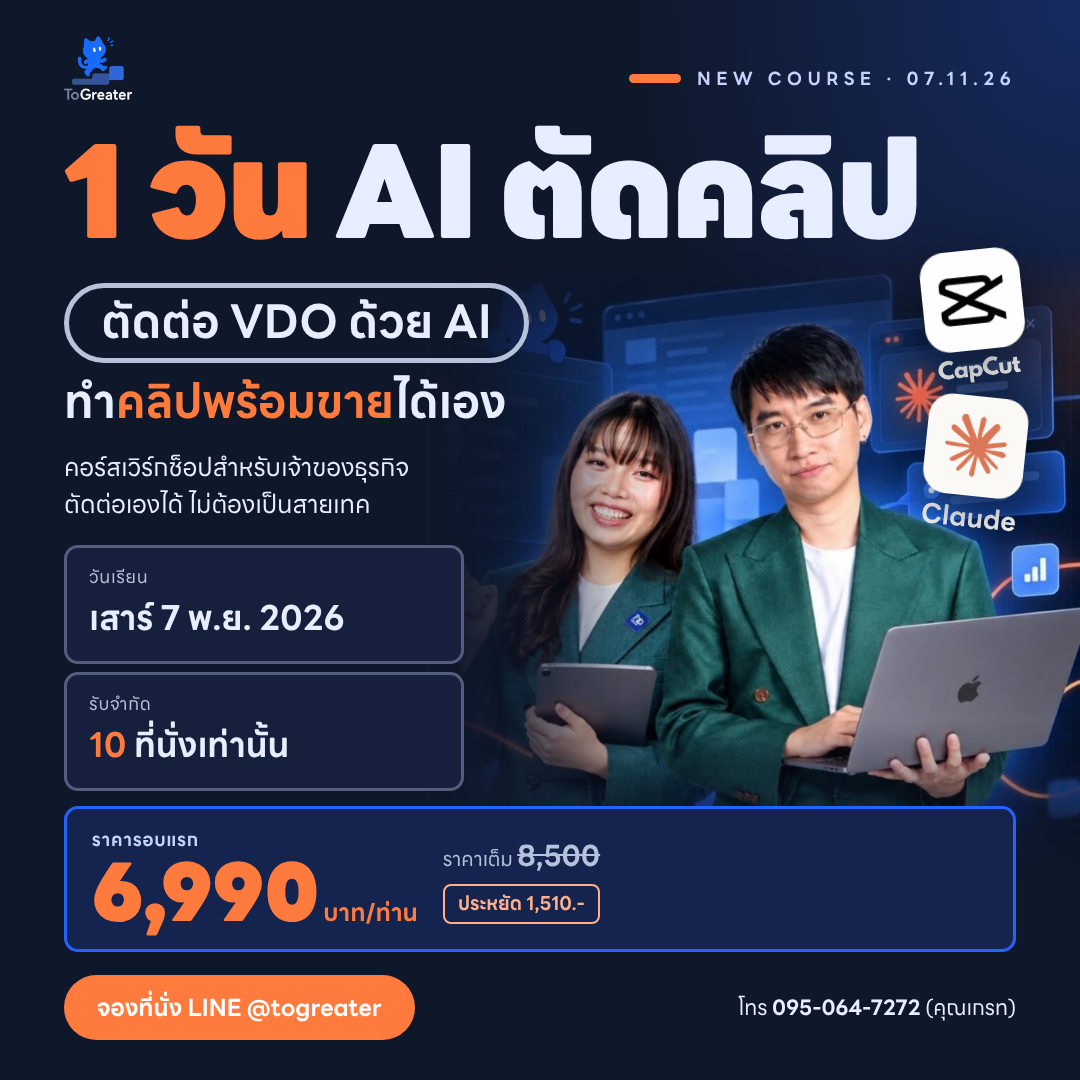
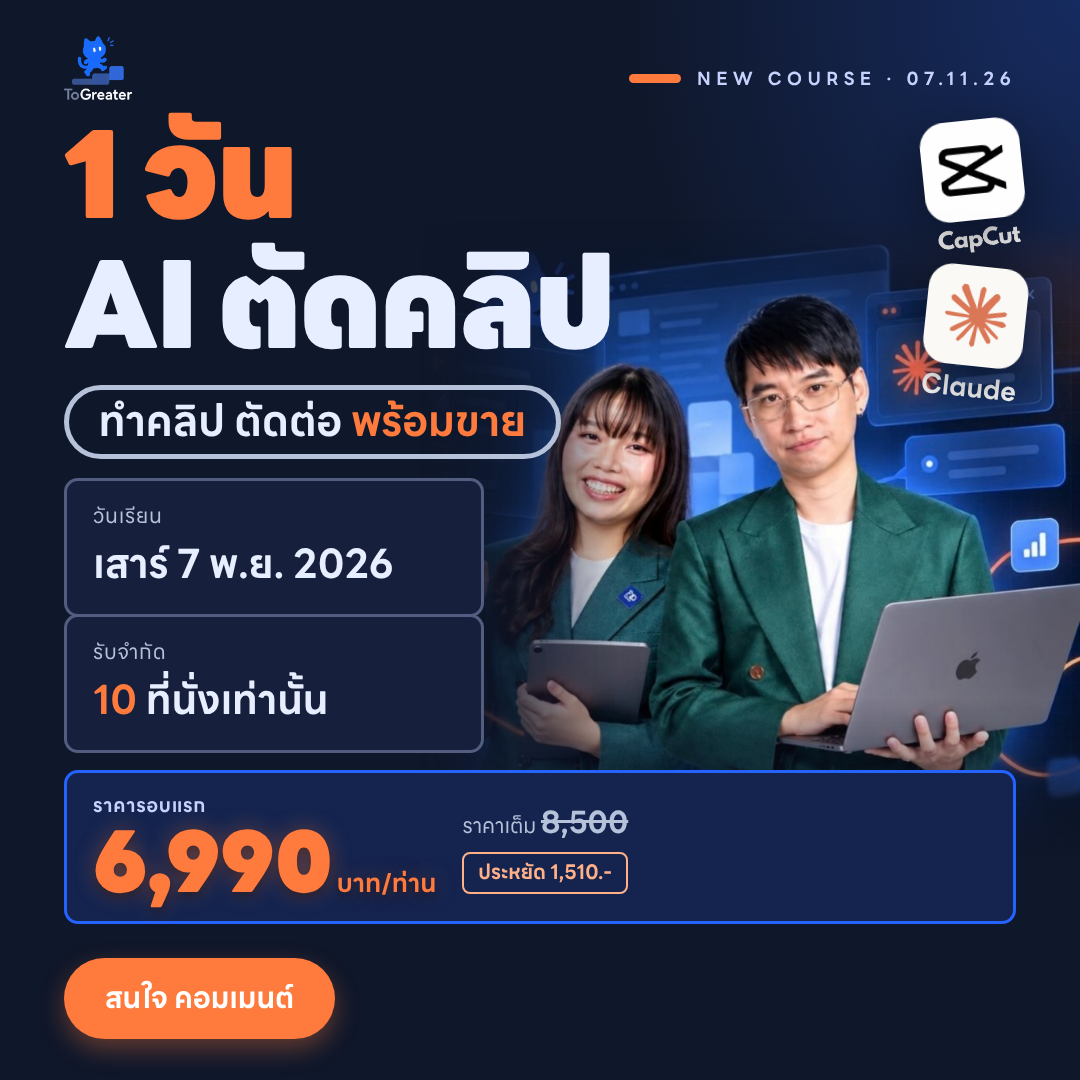
Apply feedback: stacked headline, comment CTA, bigger seats badge, price shadow
Claude-Session: https://claude.ai/code/session_01WvLy75CLDcueEYPMopSorx

diff --git a/banners/ai-video-course/index.html b/banners/ai-video-course/index.html
@@ -32,7 +32,7 @@ body{background:#060b18;font-family:"LINE Seed Sans TH",sans-serif;color:var(--t
 .logo{display:flex}.logo img{height:100%}
 .eyebrow{display:flex;align-items:center;gap:16px;font-size:18px;font-weight:700;letter-spacing:.3em;text-transform:uppercase;color:var(--tg-blue-soft)}
 .eyebrow::before{content:"";width:52px;height:9px;border-radius:9px;background:var(--tg-orange)}
-.title{font-weight:900;line-height:1.12;letter-spacing:-.02em;white-space:nowrap}
+.title{font-weight:900;line-height:1.08;letter-spacing:-.02em;white-space:nowrap}
 .sub{font-weight:700;line-height:1.3;white-space:nowrap}
 /* Title frame (CI 3.6): กรอบ outline ทรงแคปซูล */
 .frame{display:inline-block;border:5px solid var(--tg-text-muted);border-radius:999px;padding:.08em .7em .14em;margin:0 .15em .18em 0}
@@ -50,7 +50,7 @@ body{background:#060b18;font-family:"LINE Seed Sans TH",sans-serif;color:var(--t
 /* price box: font-size = base */
 .price{font-size:19px;background:#14244F;border:3px solid var(--tg-blue);border-radius:14px;padding:.8em 1.3em;display:flex;align-items:center;gap:1.3em}
 .price .now small{font-size:.95em;color:var(--tg-blue-soft);font-weight:700;letter-spacing:.04em}
-.price .now b{display:block;font-size:4.2em;font-weight:900;color:var(--tg-orange);line-height:1;white-space:nowrap}
+.price .now b{display:block;font-size:4.2em;font-weight:900;color:var(--tg-orange);line-height:1;white-space:nowrap;text-shadow:0 0 22px rgba(255,122,61,.35),0 4px 10px rgba(0,0,0,.45)}
 .price .now b sub{font-size:.3em;vertical-align:baseline;font-weight:700;margin-left:.15em}
 .price .was{font-size:1.05em;color:var(--tg-text-muted);line-height:1.5}
 .price .was s{font-size:1.45em;font-weight:700}
@@ -58,7 +58,7 @@ body{background:#060b18;font-family:"LINE Seed Sans TH",sans-serif;color:var(--t
 .price.col{flex-direction:column;align-items:flex-start;gap:.5em}
 
 .cta{display:flex;align-items:center;gap:18px;font-size:21px;color:var(--tg-text)}
-.cta .btn{background:var(--tg-orange);color:#fff;font-weight:700;border-radius:44px;padding:.6em 1.4em;font-size:1.12em;white-space:nowrap}
+.cta .btn{box-shadow:0 10px 24px rgba(255,122,61,.35);background:var(--tg-orange);color:#fff;font-weight:700;border-radius:44px;padding:.6em 1.4em;font-size:1.12em;white-space:nowrap}
 .cta b{font-weight:700}
 .cta.between{justify-content:space-between}
 .cta.col{flex-direction:column;align-items:flex-start;gap:12px}
@@ -67,16 +67,20 @@ body{background:#060b18;font-family:"LINE Seed Sans TH",sans-serif;color:var(--t
 .badge{border-radius:50%;display:flex;flex-direction:column;align-items:center;justify-content:center;text-align:center;line-height:1.15;box-shadow:0 18px 40px rgba(0,0,0,.45)}
 .badge small{font-size:1em;font-weight:700}
 .badge b{font-size:3.4em;font-weight:900;line-height:1.05}
+.badge.seat-b small,.badge.seat-b span{font-size:1.3em}
+.badge.seat-b b{font-size:5em;line-height:1}
 .badge span{font-size:1em;font-weight:700}
-.badge s{font-size:.95em;margin-top:.25em}
+.badge s{font-size:1.05em;font-weight:700;margin-top:.25em}
+.badge.price-b *{text-shadow:0 3px 10px rgba(90,25,0,.45)}
+.badge.price-b b{text-shadow:0 5px 16px rgba(90,25,0,.55)}
 .badge.price-b{background:var(--tg-orange);color:#fff;transform:rotate(8deg)}
 .badge.seat-b{background:#F8FAFF;color:var(--tg-ink);transform:rotate(-6deg)}
 .badge.seat-b b{color:var(--tg-blue)}
 .bar{display:flex;align-items:center;justify-content:space-between;background:rgba(22,32,60,.94);border:3px solid var(--tg-border);border-radius:20px;padding:22px 30px}
 .bar .when small{display:block;font-size:18px;color:var(--tg-text-muted)}
-.bar .when b{font-size:40px;font-weight:700;line-height:1.2}
+.bar .when b{font-size:54px;font-weight:900;line-height:1.15}
 .bar .when em{font-style:normal;font-size:20px;color:var(--tg-blue-soft)}
-.bar .cta{flex-direction:column;align-items:flex-end;gap:10px}
+.bar .cta{flex-direction:column;align-items:flex-end;gap:10px;font-size:26px}
 
 /* C: ตั๋ว — font-size = base */
 .ticket{background:#F8FAFF;color:var(--tg-ink);border-radius:22px;box-shadow:0 24px 50px rgba(0,0,0,.5);transform:rotate(-3deg)}
@@ -93,7 +97,7 @@ body{background:#060b18;font-family:"LINE Seed Sans TH",sans-serif;color:var(--t
 .t-cut::before{left:calc(-1.2em - 18px)}.t-cut::after{right:calc(-1.2em - 18px)}
 .t-bot{padding:.8em 1.4em 1.1em;display:flex;align-items:center;gap:1.1em}
 .t-bot small{display:block;font-size:.78em;font-weight:700;color:var(--tg-ink-body)}
-.t-bot b{display:block;font-size:3.2em;font-weight:900;color:var(--tg-orange);line-height:1;white-space:nowrap}
+.t-bot b{display:block;font-size:3.2em;font-weight:900;color:var(--tg-orange);line-height:1;white-space:nowrap;text-shadow:0 4px 10px rgba(255,122,61,.3)}
 .t-bot b sub{font-size:.3em;vertical-align:baseline;font-weight:700;margin-left:.15em;color:var(--tg-ink)}
 .t-bot .was{font-size:.9em;color:var(--tg-ink-body);line-height:1.5}
 .t-bot .was s{font-size:1.25em;font-weight:700}
@@ -116,51 +120,49 @@ body{background:#060b18;font-family:"LINE Seed Sans TH",sans-serif;color:var(--t
 <!-- =================== A · CLASSIC =================== -->
 <div class="label">A · CLASSIC</div>
 <section class="banner s11" id="a11">
-  <div class="photo" style="left:430px;top:250px;width:650px;height:627px;--mv:linear-gradient(180deg,transparent 0,#000 20%,#000 75%,transparent);--mh:linear-gradient(90deg,transparent 0,#000 30%)"><i></i></div>
+  <div class="photo" style="left:420px;top:220px;width:660px;height:637px;--mv:linear-gradient(180deg,transparent 0,#000 20%,#000 75%,transparent);--mh:linear-gradient(90deg,transparent 0,#000 30%)"><i></i></div>
   <div class="logo" style="left:64px;top:36px;height:64px" data-c="logo"></div>
   <div class="eyebrow" style="right:64px;top:64px" data-c="eyebrow"></div>
-  <div class="stack" style="left:64px;top:122px">
-    <div class="title" style="font-size:128px" data-c="title"></div>
-    <div class="sub" style="font-size:46px" data-c="sub2"></div>
-    <div class="desc" style="font-size:25px" data-c="desc2"></div>
+  <div class="stack" style="left:64px;top:112px;gap:14px">
+    <div class="title" style="font-size:120px" data-c="title"></div>
+    <div class="sub" style="font-size:42px" data-c="sub"></div>
   </div>
-  <div class="stat" style="left:64px;top:545px;width:400px" data-c="date"></div>
-  <div class="stat" style="left:64px;top:672px;width:400px" data-c="seats"></div>
-  <div class="price" style="left:64px;top:806px;width:952px" data-c="price"></div>
-  <div class="cta between" style="left:64px;right:64px;top:975px" data-c="cta"></div>
-  <div class="tools col" style="right:56px;top:250px;--w:100px" data-c="tools"></div>
+  <div class="stat" style="left:64px;top:478px;width:420px;font-size:40px" data-c="date"></div>
+  <div class="stat" style="left:64px;top:614px;width:420px;font-size:40px" data-c="seats"></div>
+  <div class="price" style="left:64px;top:770px;width:952px;font-size:20px" data-c="price"></div>
+  <div class="cta" style="left:64px;top:958px;font-size:26px" data-c="cta"></div>
+  <div class="tools col" style="right:56px;top:120px;--w:100px" data-c="tools"></div>
 </section>
 
 <section class="banner s45" id="a45">
-  <div class="photo" style="right:0;top:300px;width:760px;height:733px;--mv:linear-gradient(180deg,transparent 0,#000 22%,#000 75%,transparent);--mh:linear-gradient(90deg,transparent 0,#000 32%)"><i></i></div>
+  <div class="photo" style="right:0;top:440px;width:760px;height:733px;--mv:linear-gradient(180deg,transparent 0,#000 22%,#000 75%,transparent);--mh:linear-gradient(90deg,transparent 0,#000 32%)"><i></i></div>
   <div class="logo" style="left:64px;top:44px;height:68px" data-c="logo"></div>
   <div class="eyebrow" style="right:64px;top:74px" data-c="eyebrow"></div>
-  <div class="stack" style="left:64px;top:150px">
-    <div class="title" style="font-size:140px" data-c="title"></div>
-    <div class="sub" style="font-size:54px" data-c="sub2"></div>
+  <div class="stack" style="left:64px;top:140px">
+    <div class="title" style="font-size:150px" data-c="title"></div>
+    <div class="sub" style="font-size:52px" data-c="sub"></div>
     <div class="desc" style="font-size:28px" data-c="desc2"></div>
   </div>
-  <img src="assets/cat-sparkle.png" alt="" style="left:120px;top:690px;width:220px;transform:rotate(-6deg)">
-  <div class="stat" style="left:64px;top:915px;width:468px;font-size:38px" data-c="date"></div>
-  <div class="stat" style="left:548px;top:915px;width:468px;font-size:38px" data-c="seats"></div>
-  <div class="price" style="left:64px;top:1062px;width:952px;font-size:20px" data-c="price"></div>
-  <div class="cta between" style="left:64px;right:64px;top:1250px;font-size:22px" data-c="cta"></div>
-  <div class="tools col" style="right:72px;top:320px;--w:104px" data-c="tools"></div>
+  <img src="assets/cat-sparkle.png" alt="" style="left:90px;top:715px;width:200px;transform:rotate(-6deg)">
+  <div class="stat" style="left:64px;top:925px;width:468px;font-size:42px" data-c="date"></div>
+  <div class="stat" style="left:548px;top:925px;width:468px;font-size:42px" data-c="seats"></div>
+  <div class="price" style="left:64px;top:1072px;width:952px;font-size:20px" data-c="price"></div>
+  <div class="cta" style="left:64px;top:1250px;font-size:28px" data-c="cta"></div>
+  <div class="tools col" style="right:72px;top:150px;--w:104px" data-c="tools"></div>
 </section>
 
 <section class="banner s169" id="a169">
   <div class="photo" style="right:0;top:0;width:840px;height:810px;--mh:linear-gradient(90deg,transparent 0,#000 28%)"><i></i></div>
   <div class="logo" style="left:64px;top:26px;height:62px" data-c="logo"></div>
-  <div class="stack" style="left:64px;top:110px;gap:14px">
+  <div class="stack" style="left:64px;top:104px;gap:12px">
     <div class="eyebrow" data-c="eyebrow"></div>
-    <div class="title" style="font-size:112px" data-c="title"></div>
-    <div class="sub" style="font-size:35px" data-c="sub1"></div>
-    <div class="desc" style="font-size:21px" data-c="desc1"></div>
+    <div class="title" style="font-size:96px" data-c="title"></div>
+    <div class="sub" style="font-size:34px" data-c="sub"></div>
   </div>
-  <div class="stat" style="left:64px;top:426px;width:342px;font-size:32px" data-c="date"></div>
-  <div class="stat" style="left:422px;top:426px;width:342px;font-size:32px" data-c="seats"></div>
+  <div class="stat" style="left:64px;top:426px;width:342px;font-size:34px" data-c="date"></div>
+  <div class="stat" style="left:422px;top:426px;width:342px;font-size:34px" data-c="seats"></div>
   <div class="price" style="left:64px;top:562px;width:700px;font-size:17px" data-c="price"></div>
-  <div class="cta" style="left:64px;top:712px;font-size:20px" data-c="cta"></div>
+  <div class="cta" style="left:64px;top:708px;font-size:25px" data-c="cta"></div>
   <img src="assets/cat-sparkle.png" alt="" style="right:40px;bottom:30px;width:170px">
   <div class="tools col" style="right:64px;top:36px;--w:96px" data-c="tools"></div>
 </section>
@@ -168,50 +170,49 @@ body{background:#060b18;font-family:"LINE Seed Sans TH",sans-serif;color:var(--t
 <!-- =================== B · SPOTLIGHT =================== -->
 <div class="label">B · SPOTLIGHT</div>
 <section class="banner s11" id="b11">
-  <div class="photo" style="left:170px;top:330px;width:740px;height:714px;--mv:linear-gradient(180deg,transparent 0,#000 14%,#000 72%,transparent);--mh:linear-gradient(90deg,transparent 0,#000 14%,#000 86%,transparent)"><i></i></div>
+  <div class="photo" style="left:170px;top:400px;width:740px;height:714px;--mv:linear-gradient(180deg,transparent 0,#000 14%,#000 70%,transparent);--mh:linear-gradient(90deg,transparent 0,#000 14%,#000 86%,transparent)"><i></i></div>
   <div class="logo" style="left:64px;top:36px;height:60px" data-c="logo"></div>
   <div class="eyebrow" style="right:64px;top:62px" data-c="eyebrow"></div>
-  <div class="stack center" style="top:118px;gap:16px">
-    <div class="title" style="font-size:124px" data-c="title"></div>
-    <div class="sub" style="font-size:40px" data-c="sub1"></div>
+  <div class="stack center" style="top:100px;gap:14px">
+    <div class="title" style="font-size:112px" data-c="title"></div>
+    <div class="sub" style="font-size:40px" data-c="sub"></div>
   </div>
-  <div class="badge seat-b" style="left:40px;top:430px;width:210px;height:210px;font-size:17px" data-c="seatbadge"></div>
-  <div class="badge price-b" style="right:34px;top:400px;width:256px;height:256px;font-size:18px" data-c="pricebadge"></div>
-  <img src="assets/cat-sparkle.png" alt="" style="left:70px;top:680px;width:140px;transform:rotate(-6deg)">
-  <div class="bar" style="left:64px;right:64px;top:868px" data-c="bar"></div>
-  <div class="tools" style="left:250px;top:336px;--w:92px" data-c="tools"></div>
+  <div class="badge seat-b" style="left:30px;top:480px;width:250px;height:250px;font-size:20px" data-c="seatbadge"></div>
+  <div class="badge price-b" style="right:26px;top:455px;width:286px;height:286px;font-size:20px" data-c="pricebadge"></div>
+  <img src="assets/cat-sparkle.png" alt="" style="left:96px;top:740px;width:120px;transform:rotate(-6deg)">
+  <div class="bar" style="left:64px;right:64px;top:880px" data-c="bar"></div>
+  <div class="tools col" style="right:64px;top:118px;--w:92px" data-c="tools"></div>
 </section>
 
 <section class="banner s45" id="b45">
-  <div class="photo" style="left:120px;top:400px;width:840px;height:810px;--mv:linear-gradient(180deg,transparent 0,#000 14%,#000 72%,transparent);--mh:linear-gradient(90deg,transparent 0,#000 14%,#000 86%,transparent)"><i></i></div>
+  <div class="photo" style="left:120px;top:540px;width:840px;height:810px;--mv:linear-gradient(180deg,transparent 0,#000 14%,#000 66%,transparent 84%);--mh:linear-gradient(90deg,transparent 0,#000 14%,#000 86%,transparent)"><i></i></div>
   <div class="logo center" style="top:34px;height:66px" data-c="logo"></div>
   <div class="eyebrow center" style="top:120px" data-c="eyebrow"></div>
-  <div class="stack center" style="top:158px;gap:18px">
-    <div class="title" style="font-size:140px" data-c="title"></div>
-    <div class="sub" style="font-size:46px" data-c="sub1"></div>
+  <div class="stack center" style="top:158px;gap:16px">
+    <div class="title" style="font-size:150px" data-c="title"></div>
+    <div class="sub" style="font-size:50px" data-c="sub"></div>
   </div>
-  <div class="badge seat-b" style="left:44px;top:650px;width:232px;height:232px;font-size:18px" data-c="seatbadge"></div>
-  <div class="badge price-b" style="right:40px;top:580px;width:284px;height:284px;font-size:20px" data-c="pricebadge"></div>
-  <img src="assets/cat-sparkle.png" alt="" style="left:90px;top:905px;width:170px;transform:rotate(-6deg)">
-  <div class="bar" style="left:64px;right:64px;top:1110px" data-c="bar"></div>
-  <div class="tools" style="left:290px;top:426px;--w:100px" data-c="tools"></div>
+  <div class="badge seat-b" style="left:30px;top:700px;width:276px;height:276px;font-size:22px" data-c="seatbadge"></div>
+  <div class="badge price-b" style="right:24px;top:640px;width:312px;height:312px;font-size:22px" data-c="pricebadge"></div>
+  <img src="assets/cat-sparkle.png" alt="" style="left:80px;top:985px;width:140px;transform:rotate(-6deg)">
+  <div class="bar" style="left:64px;right:64px;top:1130px" data-c="bar"></div>
+  <div class="tools col" style="right:64px;top:176px;--w:100px" data-c="tools"></div>
 </section>
 
 <section class="banner s169" id="b169">
-  <div class="photo" style="left:380px;top:270px;width:680px;height:656px;--mv:linear-gradient(180deg,transparent 0,#000 14%);--mh:linear-gradient(90deg,transparent 0,#000 14%,#000 86%,transparent)"><i></i></div>
+  <div class="photo" style="left:380px;top:300px;width:680px;height:656px;--mv:linear-gradient(180deg,transparent 0,#000 14%);--mh:linear-gradient(90deg,transparent 0,#000 14%,#000 86%,transparent)"><i></i></div>
   <div class="logo" style="left:64px;top:30px;height:62px" data-c="logo"></div>
-  <div class="eyebrow center" style="top:40px" data-c="eyebrow"></div>
-  <div class="stack center" style="top:74px;gap:14px">
-    <div class="title" style="font-size:108px" data-c="title"></div>
-    <div class="sub" style="font-size:36px" data-c="sub1"></div>
+  <div class="eyebrow center" style="top:34px" data-c="eyebrow"></div>
+  <div class="stack center" style="top:66px;gap:12px">
+    <div class="title" style="font-size:86px" data-c="title"></div>
+    <div class="sub" style="font-size:30px" data-c="sub"></div>
   </div>
-  <div class="stat" style="left:64px;top:300px;width:330px;font-size:32px" data-c="date"></div>
-  <div class="stat" style="left:64px;top:412px;width:330px;font-size:32px" data-c="seats"></div>
-  <div class="desc" style="left:64px;top:535px;font-size:21px" data-c="desc2"></div>
-  <img src="assets/cat-sparkle.png" alt="" style="left:64px;bottom:16px;width:120px;transform:rotate(-6deg)">
-  <div class="price col" style="right:64px;top:300px;width:340px;font-size:18px" data-c="price"></div>
-  <div class="cta col" style="right:64px;top:600px;width:340px;font-size:20px" data-c="cta"></div>
-  <div class="tools" style="left:404px;top:292px;--w:88px" data-c="tools"></div>
+  <div class="stat" style="left:64px;top:330px;width:330px;font-size:36px" data-c="date"></div>
+  <div class="stat" style="left:64px;top:460px;width:330px;font-size:36px" data-c="seats"></div>
+  <img src="assets/cat-sparkle.png" alt="" style="left:64px;bottom:20px;width:130px;transform:rotate(-6deg)">
+  <div class="price col" style="right:64px;top:330px;width:340px;font-size:18px" data-c="price"></div>
+  <div class="cta" style="right:64px;top:610px;font-size:26px" data-c="cta"></div>
+  <div class="tools" style="left:960px;top:70px;--w:84px" data-c="tools"></div>
 </section>
 
 <!-- =================== C · TICKET =================== -->
@@ -220,41 +221,41 @@ body{background:#060b18;font-family:"LINE Seed Sans TH",sans-serif;color:var(--t
   <div class="photo" style="left:450px;top:300px;width:630px;height:608px;--mv:linear-gradient(180deg,transparent 0,#000 20%,#000 78%,transparent);--mh:linear-gradient(90deg,transparent 0,#000 30%)"><i></i></div>
   <div class="logo" style="left:64px;top:36px;height:60px" data-c="logo"></div>
   <div class="eyebrow" style="right:64px;top:62px" data-c="eyebrow"></div>
-  <div class="stack" style="left:64px;top:118px;gap:16px">
-    <div class="title" style="font-size:120px" data-c="title"></div>
-    <div class="sub" style="font-size:42px" data-c="sub2"></div>
-    <div class="desc" style="font-size:24px" data-c="desc2"></div>
+  <div class="stack" style="left:64px;top:110px;gap:14px">
+    <div class="title" style="font-size:112px" data-c="title"></div>
+    <div class="sub" style="font-size:40px" data-c="sub"></div>
+    <div class="desc" style="font-size:23px" data-c="desc2"></div>
   </div>
-  <div class="ticket" style="left:48px;top:615px;width:570px;font-size:21px" data-c="ticket"></div>
-  <div class="cta between" style="left:64px;right:64px;top:978px" data-c="cta"></div>
-  <div class="tools col" style="right:64px;top:136px;--w:100px" data-c="tools"></div>
+  <div class="ticket" style="left:48px;top:610px;width:580px;font-size:22px" data-c="ticket"></div>
+  <div class="cta" style="left:64px;top:968px;font-size:26px" data-c="cta"></div>
+  <div class="tools col" style="right:64px;top:126px;--w:100px" data-c="tools"></div>
 </section>
 
 <section class="banner s45" id="c45">
-  <div class="photo" style="right:0;top:420px;width:800px;height:772px;--mv:linear-gradient(180deg,transparent 0,#000 20%,#000 80%,transparent);--mh:linear-gradient(90deg,transparent 0,#000 30%)"><i></i></div>
+  <div class="photo" style="right:0;top:520px;width:800px;height:772px;--mv:linear-gradient(180deg,transparent 0,#000 20%,#000 80%,transparent);--mh:linear-gradient(90deg,transparent 0,#000 30%)"><i></i></div>
   <div class="logo" style="left:64px;top:40px;height:66px" data-c="logo"></div>
   <div class="eyebrow" style="right:64px;top:68px" data-c="eyebrow"></div>
-  <div class="stack" style="left:64px;top:146px">
-    <div class="title" style="font-size:140px" data-c="title"></div>
-    <div class="sub" style="font-size:52px" data-c="sub2"></div>
+  <div class="stack" style="left:64px;top:140px">
+    <div class="title" style="font-size:150px" data-c="title"></div>
+    <div class="sub" style="font-size:52px" data-c="sub"></div>
     <div class="desc" style="font-size:27px" data-c="desc2"></div>
   </div>
-  <div class="ticket" style="left:52px;top:850px;width:690px;font-size:25px" data-c="ticket"></div>
-  <img src="assets/cat-sparkle.png" alt="" style="left:630px;top:745px;width:160px;transform:rotate(8deg)">
-  <div class="cta between" style="left:64px;right:64px;top:1255px;font-size:22px" data-c="cta"></div>
-  <div class="tools col" style="right:70px;top:320px;--w:108px" data-c="tools"></div>
+  <div class="ticket" style="left:52px;top:850px;width:700px;font-size:26px" data-c="ticket"></div>
+  <img src="assets/cat-sparkle.png" alt="" style="left:650px;top:750px;width:150px;transform:rotate(8deg)">
+  <div class="cta" style="left:64px;top:1250px;font-size:28px" data-c="cta"></div>
+  <div class="tools col" style="right:70px;top:150px;--w:108px" data-c="tools"></div>
 </section>
 
 <section class="banner s169" id="c169">
   <div class="photo" style="left:0;top:0;width:840px;height:810px;--mh:linear-gradient(90deg,#000 0,#000 66%,transparent 96%)"><i></i></div>
   <div class="logo" style="left:790px;top:26px;height:56px" data-c="logo"></div>
   <div class="eyebrow" style="right:64px;top:46px" data-c="eyebrow"></div>
-  <div class="stack" style="left:790px;top:100px;gap:14px">
-    <div class="title" style="font-size:88px" data-c="title"></div>
-    <div class="sub" style="font-size:36px" data-c="sub2"></div>
+  <div class="stack" style="left:790px;top:92px;gap:12px">
+    <div class="title" style="font-size:80px" data-c="title"></div>
+    <div class="sub" style="font-size:30px" data-c="sub"></div>
   </div>
-  <div class="ticket" style="left:800px;top:350px;width:576px;font-size:20px" data-c="ticket"></div>
-  <div class="cta" style="left:790px;top:712px;font-size:20px" data-c="cta"></div>
+  <div class="ticket" style="left:800px;top:375px;width:576px;font-size:20px" data-c="ticket"></div>
+  <div class="cta" style="left:790px;top:708px;font-size:25px" data-c="cta"></div>
   <div class="tools col" style="left:640px;top:50px;--w:96px" data-c="tools"></div>
 </section>
 
@@ -266,7 +267,8 @@ const T={
              <div class="tool"><img class="ic" src="assets/claude-icon.svg" alt=""><span class="wt">Claude</span></div>`,
   logo:()=>`<img src="assets/logo-togreater.png" alt="ToGreater">`,
   eyebrow:()=>`New Course · 07.11.26`,
-  title:()=>`<span class="hl">1 วัน</span> AI ตัดคลิป`,
+  title:()=>`<span class="hl">1 วัน</span><br>AI ตัดคลิป`,
+  sub:()=>`<span class="frame">ทำคลิป ตัดต่อ <span class="hl">พร้อมขาย</span></span>`,
   sub1:()=>`<span class="frame">ตัดต่อ VDO ด้วย AI</span>ทำ<span class="hl">คลิปพร้อมขาย</span>ได้เอง`,
   sub2:()=>`<span class="frame">ตัดต่อ VDO ด้วย AI</span><br>ทำ<span class="hl">คลิปพร้อมขาย</span>ได้เอง`,
   desc1:()=>`คอร์สเวิร์กช็อปสำหรับเจ้าของธุรกิจ · ตัดต่อเองได้ ไม่ต้องเป็นสายเทค`,
@@ -275,11 +277,11 @@ const T={
   seats:()=>`<small>รับจำกัด</small><b><span class="hl">${SEATS}</span> ที่นั่งเท่านั้น</b>`,
   price:()=>`<div class="now"><small>ราคารอบแรก</small><b>${NOW}<sub>บาท/ท่าน</sub></b></div>
              <div class="was">ราคาเต็ม <s>${WAS}</s><br><span class="chip-save">ประหยัด ${SAVE}.-</span></div>`,
-  cta:()=>`<span class="btn">จองที่นั่ง LINE @togreater</span><span>โทร <b>095-064-7272</b> (คุณเกรท)</span>`,
+  cta:()=>`<span class="btn">สนใจ คอมเมนต์</span>`,
   seatbadge:()=>`<small>รับเพียง</small><b>${SEATS}</b><span>ที่นั่ง</span>`,
   pricebadge:()=>`<small>ราคารอบแรก</small><b>${NOW}</b><span>บาท/ท่าน</span><s>ราคาเต็ม ${WAS}</s>`,
   bar:()=>`<div class="when"><small>วันเรียน</small><b>${DATE}</b><br><em>เวิร์กช็อป 1 วัน · ลงมือทำจริง</em></div>
-           <div class="cta"><span class="btn">จองที่นั่ง LINE @togreater</span><span>โทร <b>095-064-7272</b> (คุณเกรท)</span></div>`,
+           <div class="cta"><span class="btn">สนใจ คอมเมนต์</span></div>`,
   ticket:()=>`<div class="t-top"><div class="t-label">ADMIT ONE · AI VIDEO WORKSHOP</div>
                <div class="t-row"><div><small>วันเรียน</small><b>${DATE}</b></div>
                <div class="seats"><small>รับจำกัด</small><b><em>${SEATS}</em>ที่นั่ง</b></div></div></div>
